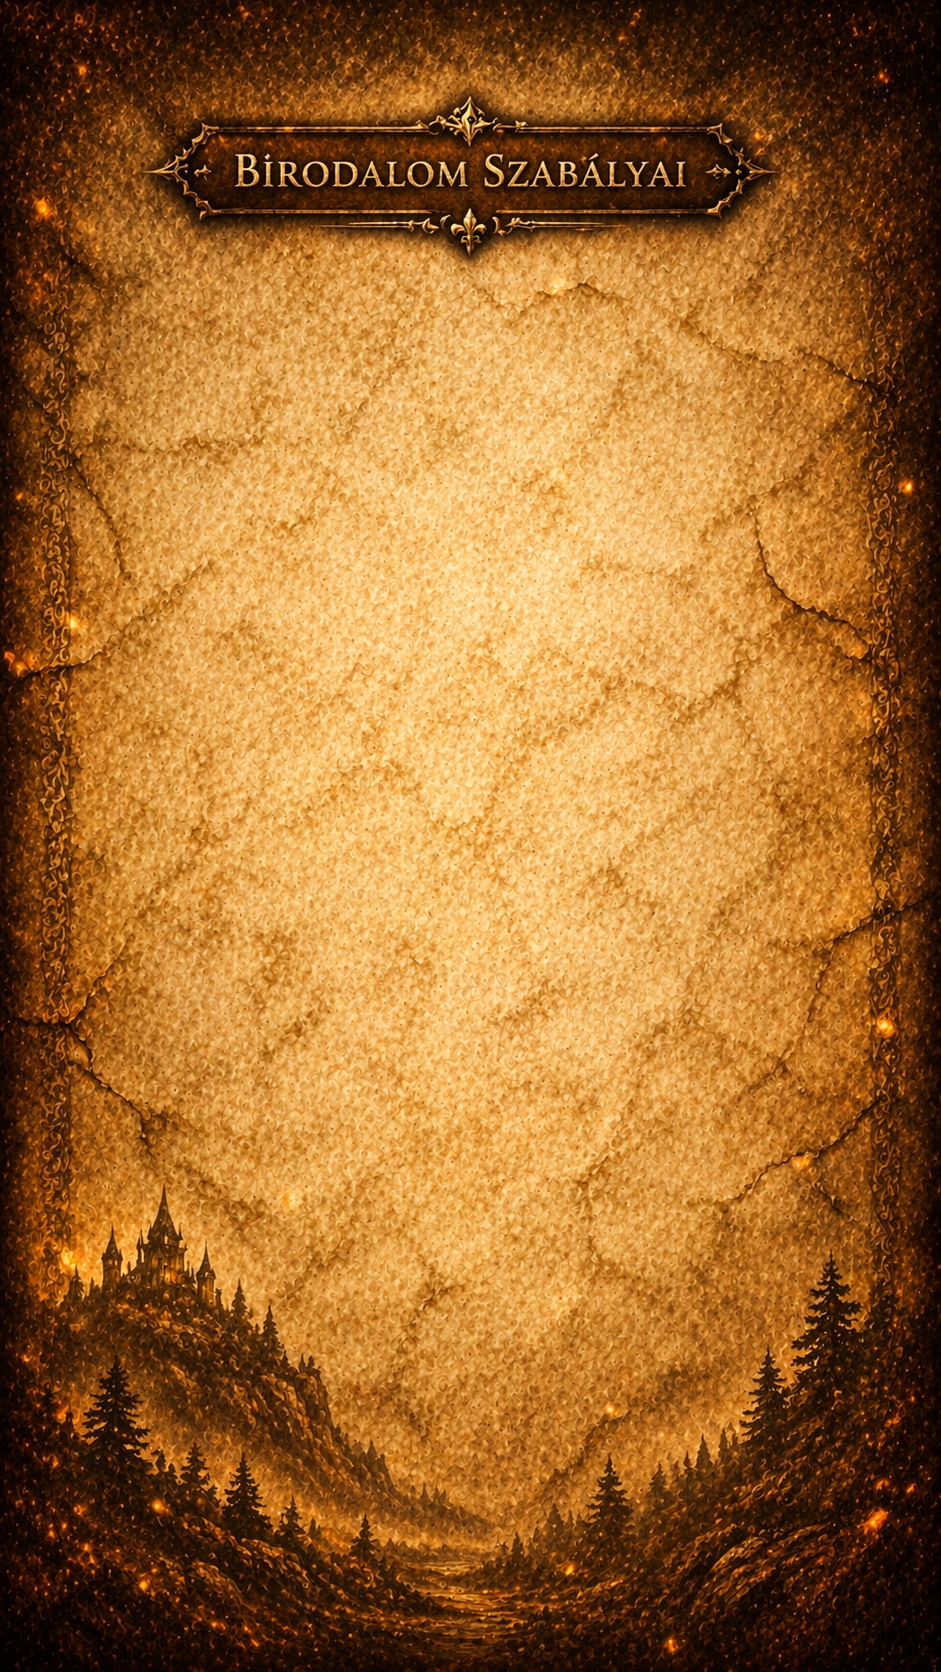
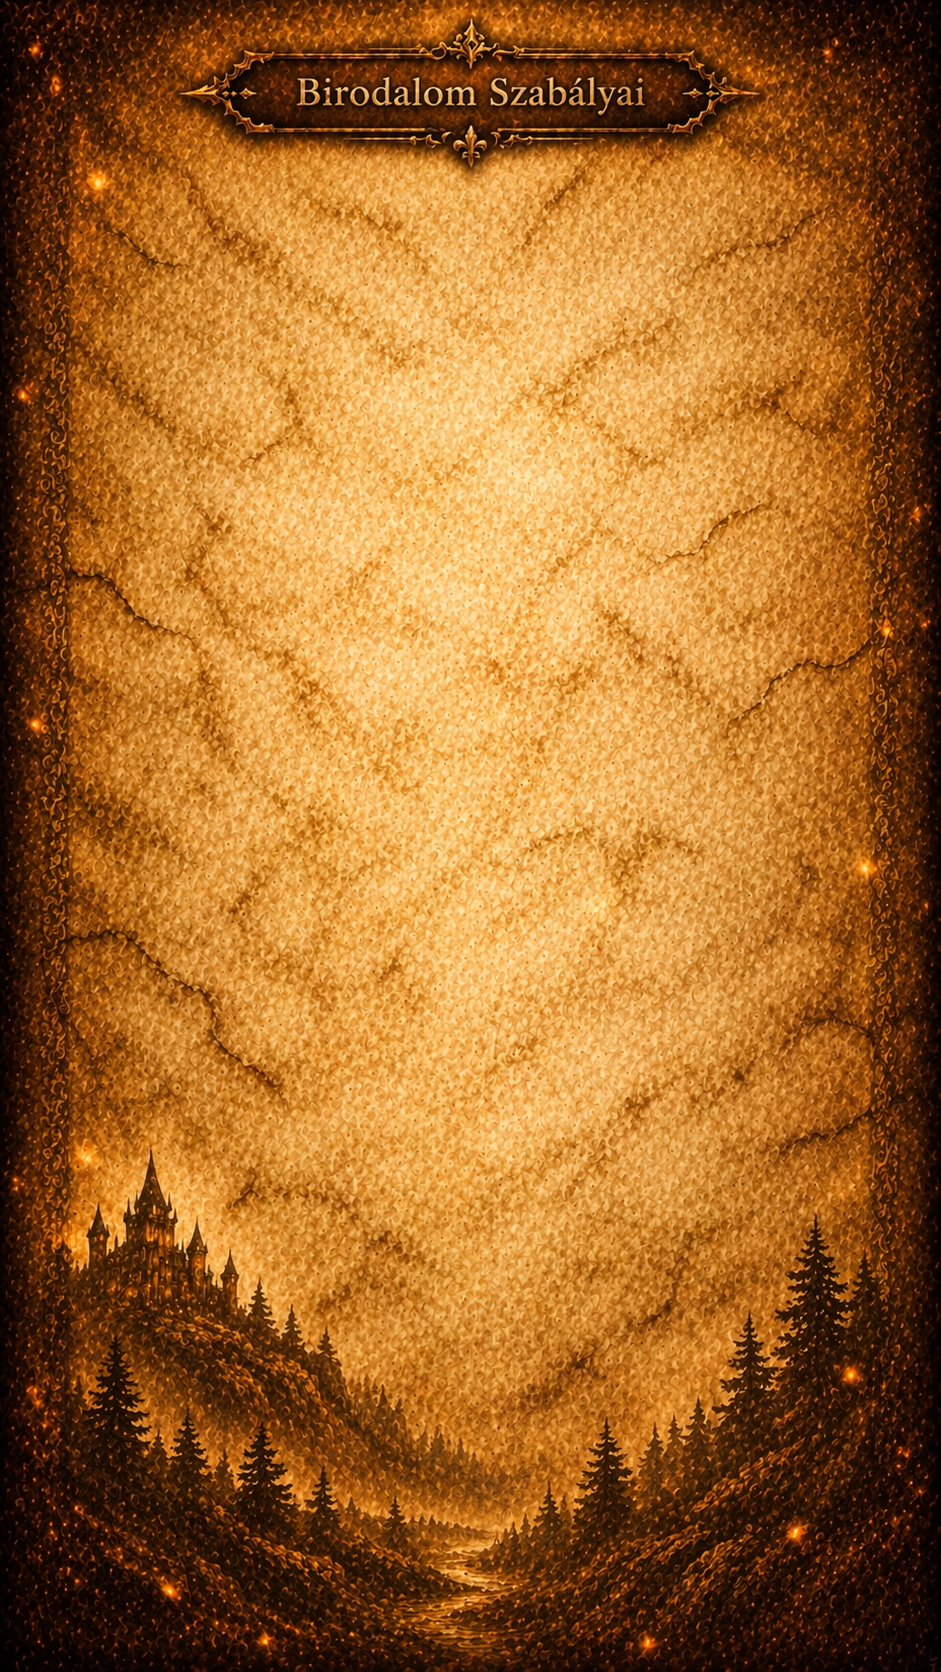
update

diff --git a/app/page.tsx b/app/page.tsx
@@ -228,7 +228,7 @@ export default function Home() {
                   className="text-[11px] tracking-[0.2em] text-[#e0d6ce] uppercase opacity-60"
                   style={{ fontFamily: "'Cinzel', serif" }}
                 >
-                  Görgess a térképhez
+                  Haladj tovább
                 </div>
                 <div className="w-[1px] h-12 bg-gradient-to-b to-transparent opacity-40" />
               </div>
@@ -240,92 +240,101 @@ export default function Home() {
 
 
 
-          {/* --- BIRODALOM SZABÁLYAI (RULES SECTION) --- */}
-          <section className="relative min-h-[140vh] w-full flex flex-col items-center pt-32 pb-28 px-6 overflow-hidden">
-            
-            {/* A RULE.PNG HÁTTÉR */}
-            <div className="absolute inset-0 z-0">
-              <img 
-                src="/rule.png" 
-                alt="Birodalmi Törvények" 
-                className="w-full h-full object-fill opacity-100"
+{/* --- BIRODALOM SZABÁLYAI (FIXED ASPECT RATIO VERSION) --- */}
+        <section className="relative w-full flex flex-col items-center bg-[#0d0a08]">
+
+          {/* Fix Háttér */}
+            <div className="fixed inset-0 z-0">
+              <div
+                className="absolute inset-0 bg-cover bg-center brightness-[0.7] sepia-[0.15]"
+                style={{ backgroundImage: "url('/paper-texture.jpg')" }}
               />
-              <div className="absolute inset-0 shadow-[inset_0_0_100px_rgba(0,0,0,0.4)]" />
+              <div className="absolute inset-0 bg-[radial-gradient(circle_at_50%_50%,transparent_20%,rgba(10,8,5,0.4)_100%)]" />
             </div>
+          
+          {/* A KÉP KONTEINER - Ez tartja meg az arányokat */}
+          <div className="relative w-full max-w-[500px] flex flex-col items-center">
+            
+            {/* Maga a kép, ami most már nem nyúlik, hanem az eredeti arányait tartja */}
+            <img 
+              src="/rule.png" 
+              alt="Birodalmi Törvények" 
+              className="w-full h-auto block" // h-auto = nincs torzítás
+            />
 
-            {/* TARTALOM - Itt a 'mt-20' vagy 'pt-20' tolja lejjebb a kezdést a képen belül */}
-            <div className="relative z-10 w-full max-w-[300px] flex flex-col items-center mt-24">
-
-              {/* Szabályok listája */}
-              <div className="space-y-0 w-full text-[#2a1a0f]">
+            {/* A SZÖVEG RÉTEG - Abszolút pozicionálva a kép fölé */}
+            <div className="absolute inset-0 z-10 flex flex-col items-center px-8 pt-[25%]">
+              
+              {/* Szabályok listája - A távolságokat (gap) itt tudod finomítani */}
+              <div className="flex flex-col gap-12 w-full text-[#2a1a0f] max-w-[280px]">
                 
+                {/* 1. Szabály */}
                 <div className="text-center">
-                  <h3 className="text-[12px] font-bold uppercase tracking-[0.25em] mb-3 text-[#5e412f]" style={{ fontFamily: "'Cinzel', serif" }}>
+                  <h3 className="text-[11px] font-bold uppercase tracking-[0.2em] mb-2 text-[#3a2416]" style={{ fontFamily: "'Cinzel', serif" }}>
                     Ⅰ. A Kiválasztottak Rendje
                   </h3>
-                  <p className="text-[15px] italic leading-relaxed px-2">
-                    Az eseményen kizárólag azok vehetnek részt, akik személyes meghívót kaptak. A szűkös keret és a bensőséges hangulat miatt a +1 fő kérését sajnos nem tudjuk teljesíteni.
+                  <p className="text-[13px] italic leading-relaxed opacity-95">
+                    A birodalom kapui csak a személyesen meghívott vendégek előtt nyílnak meg.
                   </p>
                 </div>
 
+                {/* 2. Szabály */}
                 <div className="text-center">
-                  <h3 className="text-[12px] font-bold uppercase tracking-[0.25em] mb-3 text-[#5e412f]" style={{ fontFamily: "'Cinzel', serif" }}>
+                  <h3 className="text-[11px] font-bold uppercase tracking-[0.2em] mb-2 text-[#3a2416]" style={{ fontFamily: "'Cinzel', serif" }}>
                     Ⅱ. A Megjelenés Törvénye
                   </h3>
-                  <p className="text-[15px] italic leading-relaxed px-2">
-                    Kérünk titeket, tiszteljetek meg minket elegáns öltözékkel. Ha kedvezni szeretnétek az esztétikának, kérjük, kerüljétek a rikító és élénk színeket.
-                  </p>
+                  <p className="text-[13px] italic leading-relaxed opacity-95">
+                      Kérünk benneteket, hogy megjelenésetekkel emeljétek az alkalom fényét.
+                      Az összhang érdekében kérjük, kerüljétek a rikító színeket.                  </p>
                 </div>
 
+                {/* 3. Szabály */}
                 <div className="text-center">
-                  <h3 className="text-[12px] font-bold uppercase tracking-[0.25em] mb-3 text-[#5e412f]" style={{ fontFamily: "'Cinzel', serif" }}>
+                  <h3 className="text-[11px] font-bold uppercase tracking-[0.2em] mb-2 text-[#3a2416]" style={{ fontFamily: "'Cinzel', serif" }}>
                     Ⅲ. A Kincstár Hozzájárulása
                   </h3>
-                  <p className="text-[15px] italic leading-relaxed px-2">
-                    Ami az ajándékokat illeti: tárgyi felajánlások helyett hálával fogadjuk a borítékba rejtett hozzájárulást közös életünk elindításához.
+                  <p className="text-[13px] italic leading-relaxed opacity-95">
+                    Ha támogatnátok utunkat. Kalandunkhoz aranyérméknek örülünk leginkább.
                   </p>
                 </div>
 
+                {/* 4. Szabály */}
                 <div className="text-center">
-                  <h3 className="text-[12px] font-bold uppercase tracking-[0.25em] mb-3 text-[#5e412f]" style={{ fontFamily: "'Cinzel', serif" }}>
+                  <h3 className="text-[11px] font-bold uppercase tracking-[0.2em] mb-2 text-[#3a2416]" style={{ fontFamily: "'Cinzel', serif" }}>
                     Ⅳ. A Megpihenés Joga
                   </h3>
-                  <p className="text-[15px] italic leading-relaxed px-2">
-                    A távoli utazók ne aggódjanak: a Birodalom minden vendége számára biztosítunk éjszakai szállást a helyszínen.
+                  <p className="text-[13px] italic leading-relaxed opacity-95">
+                    Minden vándorunk számára biztosítunk éjszakai szállást a helyszínen.
                   </p>
                 </div>
 
-                {/* Zenei rész */}
-                <div className="flex flex-col items-center text-center pt-10">
-                  <h3 className="text-[12px] font-bold uppercase tracking-[0.25em] mb-4 text-[#5e412f]" style={{ fontFamily: "'Cinzel', serif" }}>
+                {/* 5. Zene */}
+                <div className="flex flex-col items-center text-center pt-4">
+                  <h3 className="text-[11px] font-bold uppercase tracking-[0.2em] mb-3 text-[#3a2416]" style={{ fontFamily: "'Cinzel', serif" }}>
                     Ⅴ. A Vigasság Dallamai
                   </h3>
-                  <p className="text-[14px] italic mb-8 leading-relaxed">
-                    Segíts összeállítani az éjszaka dalait! Kattints a pecsétre, és add hozzá kedvenceidet a listához.
-                  </p>
-                  
                   <a 
-                    href="IDE_JÖN_A_LINK" 
+                    href="YOUR_LINK_HERE" 
                     target="_blank"
-                    className="relative group transition-transform hover:scale-110 active:scale-90"
+                    className="relative group active:scale-90 transition-transform"
                   >
-                    <div className="absolute inset-0 bg-[#8b633d]/20 blur-2xl rounded-full" />
-                    <img 
-                      src="/seal.png" 
-                      className="w-20 h-20 relative z-10 drop-shadow-2xl" 
-                      alt="Zenei pecsét"
-                    />
+                    <img src="/seal.png" className="w-16 h-16 drop-shadow-xl" alt="Zenei pecsét" />
                   </a>
+                  <p className="text-[10px] mt-4 opacity-70 italic leading-tight">
+                    Kattints a pecsétre a listához!
+                  </p>
                 </div>
 
               </div>
-
-              {/* Átvezető vonal */}
-              <div className="mt-32 flex flex-col items-center">
-                <div className="w-[1px] h-40 bg-gradient-to-b from-[#2a1a0f] to-transparent opacity-60" />
-              </div>
             </div>
-          </section>
+          </div>
+
+          {/* Átvezető vonal a következő szekcióhoz */}
+          <div className="mt-10 mb-20 flex flex-col items-center opacity-30">
+            <div className="w-[1px] h-32 bg-gradient-to-b from-[#8b633d] to-transparent" />
+          </div>
+        </section>
+
 
 
           {/* TÉRKÉP SZEKCIÓ (Az eredeti kódból maradt) */}
